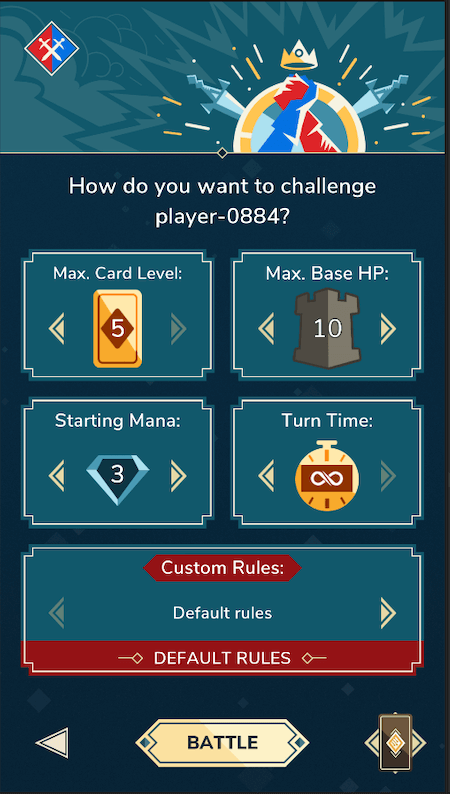
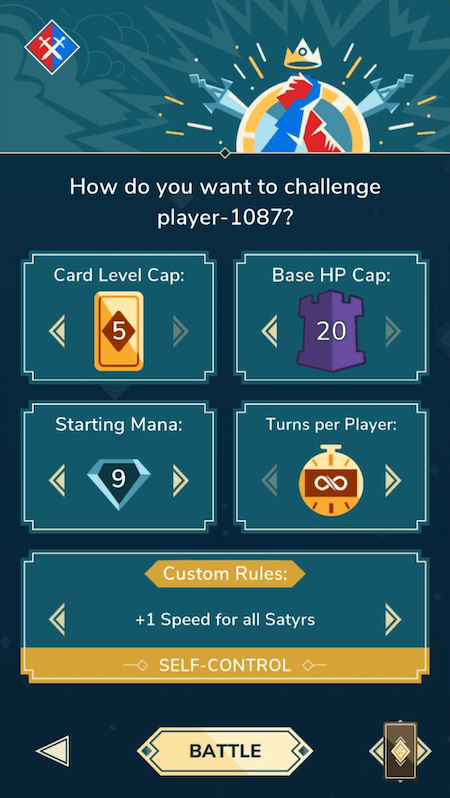
Update friendly matches images

diff --git a/src/components/ChangelogOctober2020/index.js b/src/components/ChangelogOctober2020/index.js
@@ -160,35 +160,41 @@ export default React.memo(function ChangelogOctober2020(props) {
 
       <Title id='friendly-matches-settings'>Friendly matches settings</Title>
 
+      <p>
+        It has been announced and snapshot a few times on Discord over the last
+        few weeks so it’s no longer a surprise for many of you: advanced
+        friendly matches are coming!
+      </p>
+      <p>
+        When starting a friendly match with an in-game friend, it is now
+        possible to:
+      </p>
+      <ul>
+        <li>cap the level of cards (from 1 to 5)</li>
+        <li>cap the fortress level (from 1 to 20)</li>
+        <li>pick the starting mana (from 1 mana onwards)</li>
+        <li>set up a turn timer</li>
+        <li>apply Brawl modifiers</li>
+      </ul>
+
+      <p>
+        Not all these settings are available to all players. They get unlocked
+        as one progresses throughout the game.
+      </p>
+
       <Article.FullWidth>
         <Row desktopOnly wideGutter>
-          <Column width='1/3'>
-            <p>
-              It has been announced and snapshot a few times on Discord over the
-              last few weeks so it’s no longer a surprise for many of you:
-              advanced friendly matches are coming!
-            </p>
-            <p>
-              When starting a friendly match with an in-game friend, it is now
-              possible to:
-            </p>
-            <ul>
-              <li>cap the level of cards (from 1 to 5)</li>
-              <li>cap the fortress level (from 10 to 20)</li>
-              <li>pick the starting mana (from 3 mana onwards)</li>
-              <li>set up a turn timer</li>
-              <li>apply Brawl modifiers</li>
-            </ul>
-
-            <p>
-              Not all these settings are available to all players. They get
-              unlocked as one progresses throughout the game.
-            </p>
-          </Column>
           <Column width='1/3'>
             <img
               src='/assets/images/releases/friendly_matches_2.png'
               alt='A screenshot of the new advanced friendly matches options for a new player'
+              style={{ marginTop: 0 }}
+            />
+          </Column>
+          <Column width='1/3'>
+            <img
+              src='/assets/images/releases/friendly_matches_3.png'
+              alt='A screenshot of the new advanced friendly matches options for a high-level player'
               style={{ marginTop: 0 }}
             />
           </Column>
